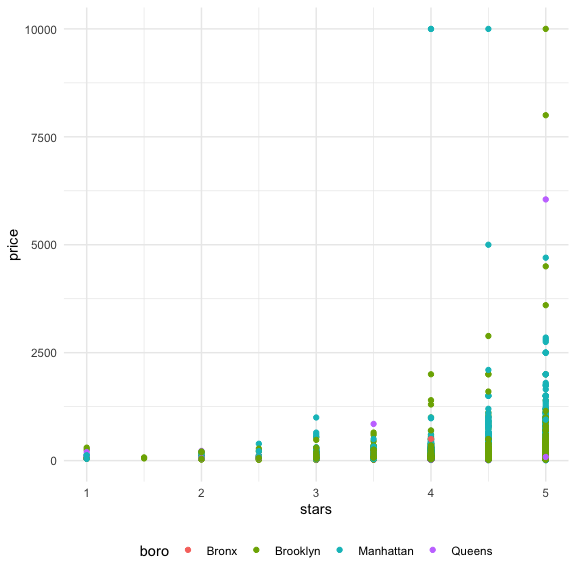
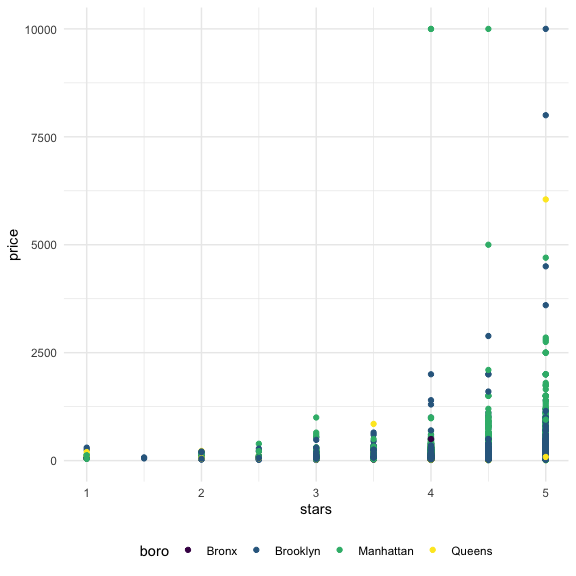
change reference var

diff --git a/lin_models.md b/lin_models.md
@@ -33,7 +33,7 @@ options(
   ggplot2.continuous.fill = "viridis"
 )
 
-scale_color_discrete = scale_colour_viridis_d
+scale_colour_discrete = scale_colour_viridis_d
 scale_fill_discrete = scale_fill_viridis_d
 ```
 
@@ -92,14 +92,66 @@ broom::tidy(fit) %>%
   select(-std.error, -statistic) %>% 
   mutate(
     term = str_replace(term, "borough", "Boro: ")
-  )
+  ) %>% 
+  knitr::kable(digits = 3)
 ```
 
-    ## # A tibble: 5 x 3
-    ##   term          estimate  p.value
-    ##   <chr>            <dbl>    <dbl>
-    ## 1 (Intercept)      -70.4 5.14e- 7
-    ## 2 stars             32.0 1.27e-36
-    ## 3 boroBrooklyn      40.5 2.23e- 6
-    ## 4 boroManhattan     90.3 6.64e-26
-    ## 5 boroQueens        13.2 1.45e- 1
+| term          | estimate | p.value |
+| :------------ | -------: | ------: |
+| (Intercept)   | \-70.414 |   0.000 |
+| stars         |   31.990 |   0.000 |
+| boroBrooklyn  |   40.500 |   0.000 |
+| boroManhattan |   90.254 |   0.000 |
+| boroQueens    |   13.206 |   0.145 |
+
+## Be in control of factors
+
+In R, the default is for the first categorical variable, alphabetically,
+to be the reference class.
+
+Let’s change that. We will change the room type reference variable to be
+the most common within the “Room type” var.
+
+``` r
+airbnb = airbnb %>% 
+  mutate(
+    boro = fct_infreq(boro),
+    room_type = fct_infreq(room_type))
+```
+
+``` r
+airbnb %>% 
+  ggplot(aes(x = stars, y = price, color = boro)) +
+  geom_point()
+```
+
+    ## Warning: Removed 9962 rows containing missing values (geom_point).
+
+<img src="lin_models_files/figure-gfm/unnamed-chunk-8-1.png" width="90%" />
+
+We see that the model has not changed fundamentally, but reference has
+changed
+
+``` r
+fit = lm(price ~ stars + boro, data = airbnb)
+broom::tidy(fit)
+```
+
+    ## # A tibble: 5 x 5
+    ##   term         estimate std.error statistic   p.value
+    ##   <chr>           <dbl>     <dbl>     <dbl>     <dbl>
+    ## 1 (Intercept)      19.8     12.2       1.63 1.04e-  1
+    ## 2 stars            32.0      2.53     12.7  1.27e- 36
+    ## 3 boroBrooklyn    -49.8      2.23    -22.3  6.32e-109
+    ## 4 boroQueens      -77.0      3.73    -20.7  2.58e- 94
+    ## 5 boroBronx       -90.3      8.57    -10.5  6.64e- 26
+
+``` r
+broom::glance(fit)
+```
+
+    ## # A tibble: 1 x 12
+    ##   r.squared adj.r.squared sigma statistic   p.value    df  logLik    AIC    BIC
+    ##       <dbl>         <dbl> <dbl>     <dbl>     <dbl> <dbl>   <dbl>  <dbl>  <dbl>
+    ## 1    0.0342        0.0341  182.      271. 6.73e-229     4 -2.02e5 4.04e5 4.04e5
+    ## # … with 3 more variables: deviance <dbl>, df.residual <int>, nobs <int>
